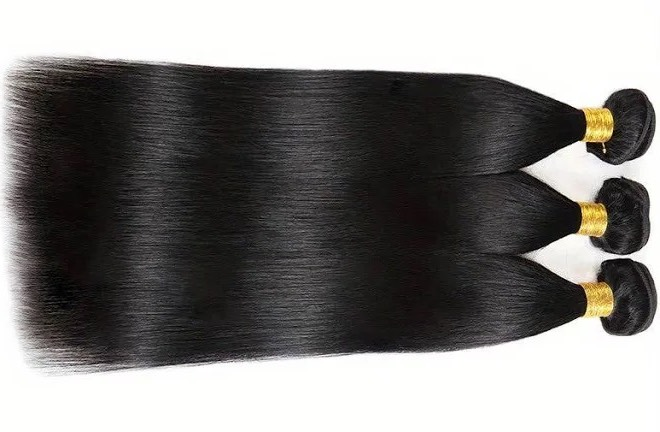
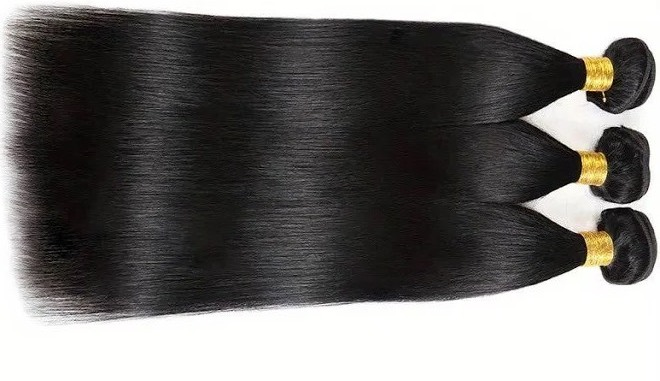
resizing pic

Changed region(s): [[0.0, 0.0, 1.0, 0.8661]]

diff --git a/index.html b/index.html
@@ -719,7 +719,7 @@
               class="fa fa-instagram"></i></a></li>
         <li><a href="https://www.youtube.com/@lydia-philomenaekada434/featured" target="_blank"><i
               class="fa fa-youtube"></i></a></li>
-        <li><a href="#" target="_blank"><i class="fa fa-linkedin-square"></i></a></li>
+        <li><a href="#" target="_blank"><i class="fa fa-tik-tok"></i></a></li>
         <li><a href="mailto:louniquehair@gmail.com" target="_blank"><i class="fa fa-envelope"></i></a></li>
         <li><a
             href="https://www.snapchat.com/add/lydia_elkanah?sender_web_id=72747f11-95f8-41bf-953f-a352b0537229&device_type=desktop&is_copy_url=true"

diff --git a/mycss.css b/mycss.css
@@ -322,15 +322,16 @@ footer {
 }
 
 .price .header {
+  background-repeat: no-repeat;
+  background-size: cover;
   background-color: #f7b308b2;
   color: white;
   font-size: 25px;
   height: 42%;
 }
-.header img {
-  width: 80%;
-  height: 80%;
-}
+/* .header img {
+  
+} */
 .columns2 .price .header {
   background-color: #f7b308b2;
   color: white;
